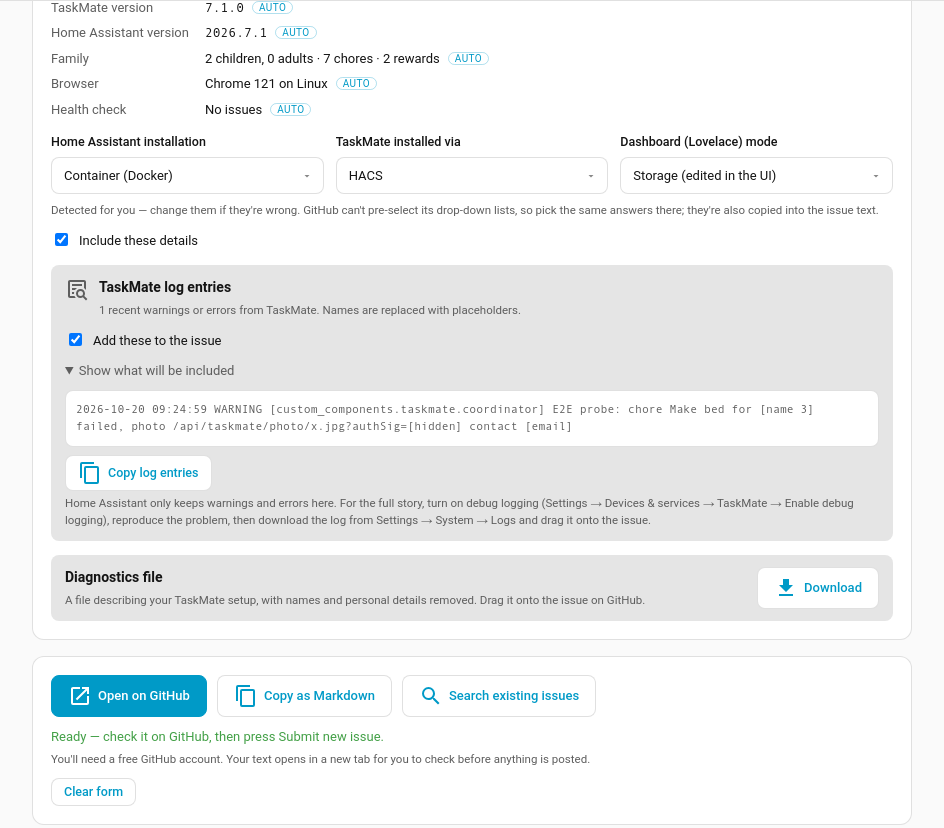
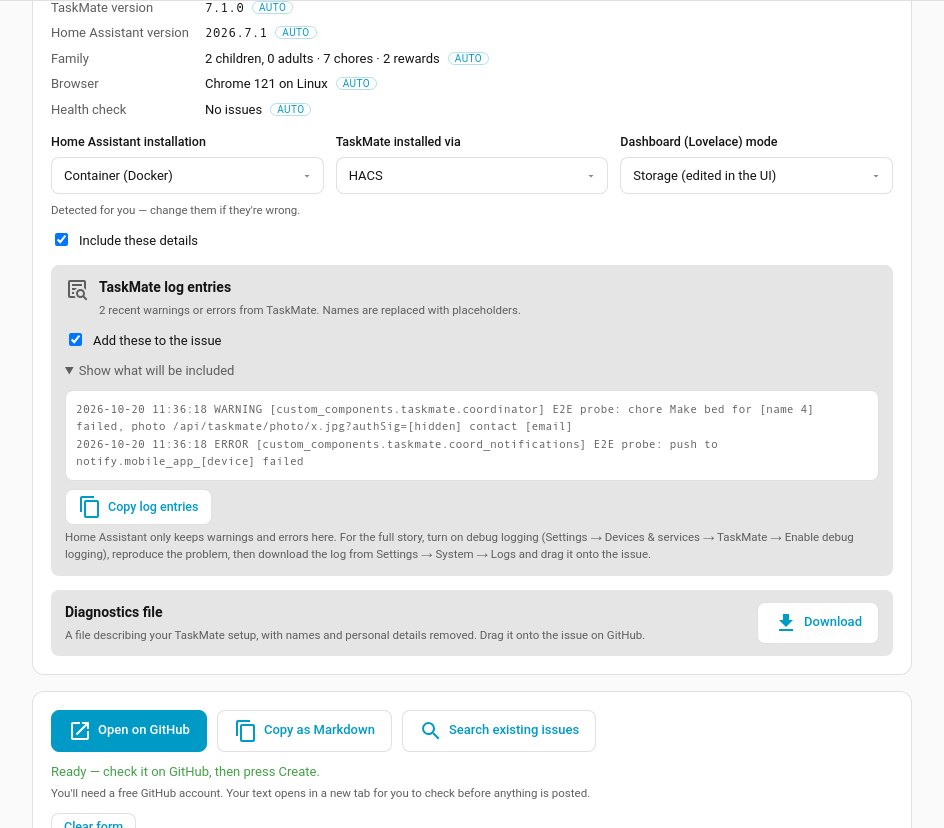
feat(issues): pre-fill every required field from the Help & feedback link
GitHub fills text fields from an issue link but never pre-selects a
drop-down, so a panel report still arrived with "None" in three required
drop-downs.

- Bug template: Home Assistant installation type, TaskMate installation
  method and Lovelace mode are now text fields, each listing its valid
  answers, so the panel fills them in
- Bug "reproducible"/"affected area" and feature "area"/"priority" stay
  drop-downs for people filing directly on GitHub, but are optional; the
  panel writes those answers into the issue text instead
- The install answers no longer repeat in the issue text (Copy as Markdown
  keeps them, having no separate fields)
- GitHub's button is now "Create": the panel and docs say so
- Test: no required template field may be a drop-down, and the install
  answers must match the ones each text field lists

Changed region(s): [[0.0307, 0.4831, 0.9523, 0.785], [0.0307, 0.8152, 0.6144, 1.0], [0.3379, 0.2415, 0.9216, 0.2717]]

diff --git a/custom_components/taskmate/www/taskmate-panel.js b/custom_components/taskmate/www/taskmate-panel.js
@@ -200,9 +200,10 @@ const MOOD_FACES = { great: "😄", good: "🙂", ok: "😐", sad: "😢", upset
 
 // Help & feedback page: builds a pre-filled GitHub "new issue" link. Nothing is
 // sent from Home Assistant — the parent reviews the text on GitHub and submits
-// it there. Option values are the issue templates' own English option text
-// (.github/ISSUE_TEMPLATE), which is what GitHub matches; `lk` is the label the
-// panel shows. Field ids in the URL are the templates' field ids.
+// it there. Values are the issue templates' own English wording
+// (.github/ISSUE_TEMPLATE) — the option text of a drop-down, or the answers a
+// text field's description lists; `lk` is the label the panel shows. Field ids
+// in the URL are the templates' field ids.
 const FEEDBACK_REPO = "https://github.com/tempus2016/taskmate";
 const FEEDBACK_API = "https://api.github.com/search/issues";
 // GitHub answers 414 somewhere past 8 KB; stay clear of it.
@@ -9829,8 +9830,9 @@ class TaskMatePanel extends HTMLElement {
    * Report a bug or suggest a feature without leaving Home Assistant. The page
    * builds GitHub's pre-filled "new issue" link from the repo's own issue
    * templates; nothing is sent from here. GitHub only pre-fills text fields,
-   * so the template's drop-down answers also travel as text in "Additional
-   * context", and the page tells the parent which ones to pick.
+   * so every required field on the templates is a text field, and the few
+   * optional drop-downs (area, reproducible, priority) travel as text in
+   * "Additional context" instead.
    *
    * Typing never re-renders the page: the draft lives in this._fb and
    * localStorage, and _fbPaint() refreshes just the link, the counters and the
@@ -9923,16 +9925,22 @@ class TaskMatePanel extends HTMLElement {
     return feedbackBrowser(typeof navigator !== "undefined" ? navigator.userAgent : "");
   }
 
-  /** The "Sent from the TaskMate panel" block — the template's drop-down answers as text. */
-  _fbEnvLines() {
+  /**
+   * The setup lines of the "Sent from the TaskMate panel" block. The install
+   * answers have their own fields on the GitHub form, so the link leaves them
+   * out (`install: false`); Copy as Markdown has no fields and keeps them.
+   */
+  _fbEnvLines({ install = true } = {}) {
     const info = this._fbInfoOrFallback();
     const env = this._fbEnv();
     const c = info.counts || {};
     const method = env.install_method ? feedbackOption(FEEDBACK_INSTALL_METHODS, env.install_method).v : "Not sure";
     const lines = [
-      `- Installation type: ${feedbackOption(FEEDBACK_INSTALL_TYPES, env.install_type).v}${info.installation_type_raw ? ` (HA reports "${info.installation_type_raw}")` : ""}`,
-      `- TaskMate installed via: ${method}`,
-      `- Lovelace mode: ${feedbackOption(FEEDBACK_LOVELACE_MODES, env.lovelace_mode).v}`,
+      ...(install ? [
+        `- Installation type: ${feedbackOption(FEEDBACK_INSTALL_TYPES, env.install_type).v}${info.installation_type_raw ? ` (HA reports "${info.installation_type_raw}")` : ""}`,
+        `- TaskMate installed via: ${method}`,
+        `- Lovelace mode: ${feedbackOption(FEEDBACK_LOVELACE_MODES, env.lovelace_mode).v}`,
+      ] : []),
       info.counts ? `- Family: ${c.children || 0} children, ${c.adults || 0} adults · ${c.chores || 0} chores · ${c.rewards || 0} rewards`
         : `- Setup details: unavailable (${this._fbInfo && this._fbInfo.error})`,
       `- Language: ${info.language || "?"} · Card design: ${info.card_design || "?"}`,
@@ -9954,8 +9962,11 @@ class TaskMatePanel extends HTMLElement {
     const includeEnv = d.env.include !== false;
     if (d.type === "feature") {
       const f = d.feature;
-      const extra = [f.additional.trim(), includeEnv && info.integration_version
-        ? `_Sent from the TaskMate panel · TaskMate ${info.integration_version} · Home Assistant ${info.ha_version}_` : ""]
+      // GitHub can't pre-select its drop-downs (optional on the form), so the
+      // parent's answers travel as text.
+      const answers = [`- Area: ${f.area}`, `- Importance: ${feedbackOption(FEEDBACK_PRIORITY, f.priority).v}`];
+      if (includeEnv && info.integration_version) answers.push(`- TaskMate ${info.integration_version} · Home Assistant ${info.ha_version}`);
+      const extra = [f.additional.trim(), ["**Sent from the TaskMate panel**", ...answers].join("\n")]
         .filter(Boolean).join("\n\n");
       const fields = {
         summary: f.summary, problem: f.problem, solution: f.solution, area: f.area, alternatives: f.alternatives,
@@ -9967,7 +9978,10 @@ class TaskMatePanel extends HTMLElement {
       return { url, over: Math.max(0, url.length - FEEDBACK_URL_MAX), logsUsed: 0, logsDropped: 0 };
     }
     const b = d.bug;
-    const additional = [b.additional.trim(), includeEnv ? ["**Sent from the TaskMate panel**", ...this._fbEnvLines()].join("\n") : ""]
+    // The drop-downs GitHub can't pre-select (optional on the form) travel as text.
+    const answers = [`- Affected area: ${b.area}`, `- Reproducible: ${feedbackOption(FEEDBACK_REPRO, b.repro).v}`];
+    const additional = [b.additional.trim(),
+      ["**Sent from the TaskMate panel**", ...answers, ...(includeEnv ? this._fbEnvLines({ install: false }) : [])].join("\n")]
       .filter(Boolean).join("\n\n");
     const fields = {
       taskmate_version: includeEnv ? info.integration_version : "",

diff --git a/tests/test_feedback_template_sync.py b/tests/test_feedback_template_sync.py
@@ -1,10 +1,10 @@
 """The panel's Help & feedback link must match the GitHub issue templates.
 
 GitHub fills a form field from the link only when the query key is the
-field's ``id``, and a drop-down answer only means something when it is one of
-the template's own options, word for word. Editing a template without the
-panel (or the other way round) would silently stop pre-filling, so this pins
-the two together.
+field's ``id``, and it never pre-selects a drop-down — so every required field
+must be a text field, and the answers the panel sends must be the template's
+own wording, word for word. Editing a template without the panel (or the other
+way round) would silently stop pre-filling, so this pins the two together.
 """
 
 from __future__ import annotations
@@ -27,8 +27,19 @@ def _field_ids(template: dict) -> set[str]:
     return {b["id"] for b in template["body"] if "id" in b}
 
 
+def _field(template: dict, field_id: str) -> dict:
+    return next(b for b in template["body"] if b.get("id") == field_id)
+
+
 def _options(template: dict, field_id: str) -> list[str]:
-    return next(b for b in template["body"] if b.get("id") == field_id)["attributes"]["options"]
+    return _field(template, field_id)["attributes"]["options"]
+
+
+def _listed_answers(template: dict, field_id: str) -> list[str]:
+    """The answers a text field's description lists: "One of: a, b, c. Found in …"."""
+    desc = _field(template, field_id)["attributes"]["description"]
+    listed = desc.split("One of:", 1)[1].split(". Found in", 1)[0]
+    return [a.strip() for a in listed.split(", ")]
 
 
 def _panel_values(const: str) -> list[str]:
@@ -38,6 +49,11 @@ def _panel_values(const: str) -> list[str]:
         block = block[: block.index("].map(")]
         return re.findall(r'\["\w+", "([^"]+)"\]', block)
     return re.findall(r'v: "([^"]+)"', block[: block.index("];")])
+
+
+def _object_keys(body: str) -> set[str]:
+    """`key: value` pairs plus shorthand properties (`additional,`) of a fields object."""
+    return set(re.findall(r"\b([a-z_]+):", body)) | set(re.findall(r"(?:^|,)\s*([a-z_]+),\s*\n\s*\};", body, re.M))
 
 
 BUG = _template("bug_report.yml")
@@ -50,19 +66,17 @@ def test_template_file_names_match():
 
 
 def test_bug_link_keys_are_bug_template_field_ids():
-    body = PANEL[PANEL.index("const b = d.bug;") : PANEL.index("const title = `[Bug]:")]
-    # `key: value` pairs plus shorthand properties (`additional,`).
-    keys = set(re.findall(r"\b([a-z_]+):", body)) | set(re.findall(r"\b([a-z_]+),\s*\n\s*\};", body))
-    keys |= {"logs"}
+    start = PANEL.index("const fields = {\n      taskmate_version:")
+    body = PANEL[start : PANEL.index("const title = `[Bug]:", start)]
+    keys = _object_keys(body) | {"logs"}
     assert {"taskmate_version", "description", "steps", "additional"} <= keys, keys
     assert keys <= _field_ids(BUG), keys - _field_ids(BUG)
 
 
 def test_feature_link_keys_are_feature_template_field_ids():
-    body = PANEL[
-        PANEL.index("const fields = {\n        summary:") : PANEL.index('feedbackIssueUrl("feature_request.yml"')
-    ]
-    keys = set(re.findall(r"\b([a-z_]+):", body))
+    start = PANEL.index("const fields = {\n        summary:")
+    body = PANEL[start : PANEL.index('feedbackIssueUrl("feature_request.yml"', start)]
+    keys = _object_keys(body)
     assert {"summary", "problem", "children_count", "use_case"} <= keys, keys
     assert keys <= _field_ids(FEATURE), keys - _field_ids(FEATURE)
 
@@ -73,17 +87,34 @@ def test_title_prefixes_match_the_templates():
     assert "`[Bug]: ${" in PANEL and "`[Feature]: ${" in PANEL
 
 
+def test_no_required_field_is_a_dropdown():
+    """GitHub can't pre-select a drop-down, so a required one would undo the panel's pre-fill."""
+    for name, template in (("bug", BUG), ("feature", FEATURE)):
+        required_dropdowns = [
+            b["id"]
+            for b in template["body"]
+            if b["type"] == "dropdown" and (b.get("validations") or {}).get("required")
+        ]
+        assert not required_dropdowns, f"{name}: {required_dropdowns}"
+
+
+def test_install_answers_are_the_ones_the_text_fields_list():
+    for const, field_id in (
+        ("FEEDBACK_INSTALL_TYPES", "ha_install_type"),
+        ("FEEDBACK_INSTALL_METHODS", "install_method"),
+        ("FEEDBACK_LOVELACE_MODES", "lovelace_mode"),
+    ):
+        assert _field(BUG, field_id)["type"] == "input", field_id
+        assert _panel_values(const) == _listed_answers(BUG, field_id), const
+
+
 def test_every_dropdown_answer_is_a_template_option():
-    pairs = [
+    for const, template, field_id in (
         ("FEEDBACK_BUG_AREAS", BUG, "affected_area"),
         ("FEEDBACK_FEATURE_AREAS", FEATURE, "area"),
         ("FEEDBACK_REPRO", BUG, "reproducible"),
         ("FEEDBACK_PRIORITY", FEATURE, "priority"),
-        ("FEEDBACK_INSTALL_TYPES", BUG, "ha_install_type"),
-        ("FEEDBACK_INSTALL_METHODS", BUG, "install_method"),
-        ("FEEDBACK_LOVELACE_MODES", BUG, "lovelace_mode"),
-    ]
-    for const, template, field_id in pairs:
+    ):
         values = _panel_values(const)
         assert values, const
         missing = [v for v in values if v not in _options(template, field_id)]

diff --git a/wiki/Help-and-Feedback.md b/wiki/Help-and-Feedback.md
@@ -21,7 +21,7 @@ Like the rest of the panel, it's for Home Assistant admins.
 1. Pick **Report a bug** or **Suggest a feature**.
 2. Fill in the boxes marked **\***. As you type the title, TaskMate searches GitHub for **similar issues**. If one of them is your problem, add a comment or a 👍 there instead of opening a new one.
 3. Check the **Included automatically** details (see below).
-4. Press **Open on GitHub**. GitHub opens in a new tab with everything filled in. Read it over, add any screenshots, and press **Submit new issue**.
+4. Press **Open on GitHub**. GitHub opens in a new tab with every required box filled in. Tick the **Before Submitting** checkboxes, read it over, add any screenshots, and press **Create**.
 
 **Nothing is sent from Home Assistant.** The page only builds a link; the issue is created only if you submit it on GitHub. You'll need a free GitHub account.
 
@@ -70,7 +70,7 @@ The number of children you use TaskMate with is filled in for you.
 | Browser | A summary like "Chrome 141 on Windows", never the full browser string |
 | Health check | The issue codes from **Insights → Health**, if it found anything |
 
-The three drop-downs are **detected for you**; change any that are wrong. GitHub can't pre-select the drop-down lists on its form, so pick the same answers there. They're also written into the issue's **Additional context**, so nothing is lost if you don't.
+The three installation answers are **detected for you**; change any that are wrong. They fill in their own boxes on the GitHub form. The other choices you make (which part of TaskMate, whether it happens every time, how important a feature is) go into the issue's **Additional context**, because GitHub can't pre-select the drop-down lists on its form. Those lists are optional there, so there's nothing to pick again.
 
 Untick **Include these details** to leave all of this out.
 
